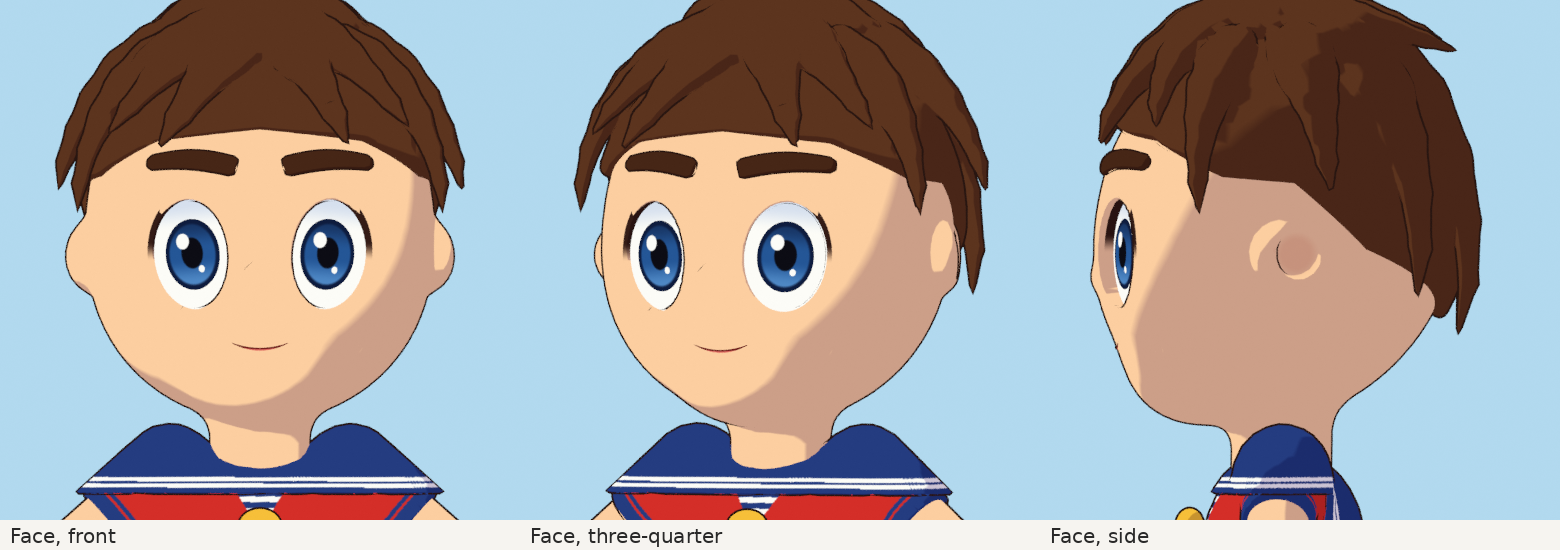
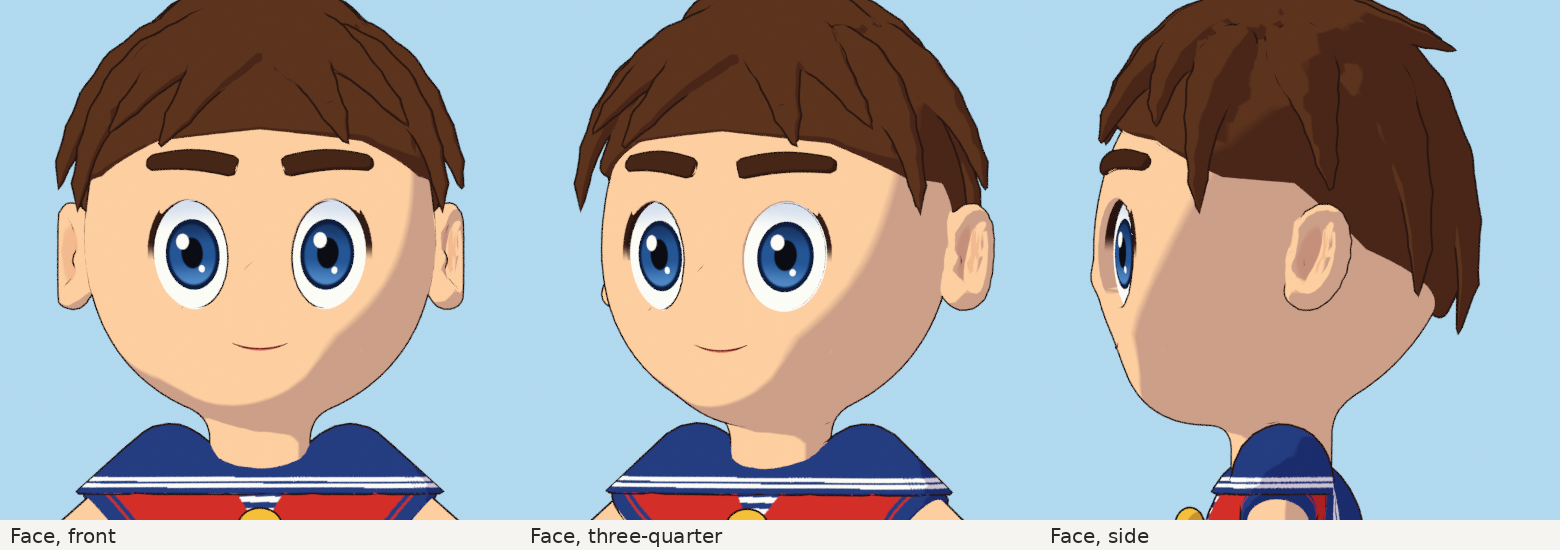
Kai: sculpted toon ears with helix rim, bowl, fold, tragus and lobe
The ears were a flat painted bump with no silhouette. They are now
a separate SDF placed on the head surface: a rounded helix rim, a
recessed bowl, an inner fold, a tragus and a soft lobe, leaning back
slightly. Hollow shading follows the new ear frame, and the closeup
render adds an ear sheet. All three blind reviewers preferred the new
ears. Clearance audit and the hair-vs-ear check both pass.

Claude-Session: https://claude.ai/code/session_016GpJUtHsovbhGp1GMTd1Wt

diff --git a/tools/kai_geometry.py b/tools/kai_geometry.py
@@ -248,29 +248,82 @@ def sdf_normals(P, sdf, h=0.02):
 # ---------------------------------------------------------------------------
 # Head
 # ---------------------------------------------------------------------------
-EAR = dict(off=(15.8, 1.8, -3.6), r=(2.2, 3.5, 4.7))
+EAR = dict(dy=1.6, dz=-3.2)                            # where the ear's front edge meets the head
 EYE = dict(x=6.9, dz=-3.4, a=4.0, b=5.3, tilt=5.0)    # centre, half width, half height (cm), lean of the tops (deg)
 IRIS = dict(a=2.75, b=3.45)                            # iris half width and half height
 BROW = dict(dz=4.9, x0=2.3, x1=10.4, arch=0.5, slant=0.35, w=1.95, t=0.9)
 MOUTH = dict(dz=-12.4)
 
 
-def head_base_sdf(P):
-    """Head without eye windows: big round cranium, soft cheeks, small chin, button nose, round ears, neck and a
-    patch of upper chest for the tunic's V-neck."""
+def head_core_sdf(P):
+    """Head without ears or eye windows: big round cranium, soft cheeks, small chin, small pointed nose, neck."""
     C = HEAD_C
     d = sd_ellipsoid(P, C, np.array([16.6, 17.2, 17.4]))
     d = smin(d, sd_ellipsoid(P, C + [0, -2.8, -6.4], np.array([14.6, 13.6, 12.6])), 5.0)       # cheeks and jaw
     d = smin(d, sd_ellipsoid(P, C + [0, -8.6, -14.6], np.array([5.6, 5.0, 4.4])), 4.0)        # chin
     d = smin(d, sd_ellipsoid(P, C + [0, -16.0, -5.5], np.array([1.1, 1.8, 1.3]),
                              rot_axes([1, 0, 0], [0, 1, 0.25])), 1.3)                                # small pointed nose
+    return smin(d, sd_capsule(P, (0, 0.6, Z["neck"] - 1.5), (0, 0.8, C[2] - 8.0), 4.75), 2.5)     # neck
+
+
+_EAR = {}
+
+
+def ear_frame(s):
+    """Origin on the side of the head and the ear's axes: u toward the back, v up (leaning back), n out of the ear."""
+    key = float(s)
+    if key in _EAR: return _EAR[key]
+    n = nrm([0.86 * s, -0.36, 0.08])                                  # faces out and a little forward
+    v = nrm(UP - n * (n @ UP))
+    b = nrm(np.cross(n, v)); b = b if b[1] > 0 else -b
+    lean = math.radians(14)                                            # the top of the ear leans back
+    v, b = nrm(v * math.cos(lean) + b * math.sin(lean)), nrm(b * math.cos(lean) - v * math.sin(lean))
+    z = HEAD_C[2] + EAR["dz"]
+    O = ray_hits(np.array([30.0 * s, HEAD_C[1] + EAR["dy"], z]), np.array([-s, 0.0, 0.0]), head_core_sdf, t_max=30.0)[0]
+    _EAR[key] = (O - n * 0.35, b, v, n)
+    return _EAR[key]
+
+
+def ear_local(P, s):
+    O, b, v, n = ear_frame(s)
+    q = P - O
+    return np.column_stack([q @ b, q @ v, q @ n])
+
+
+def _ear_rim():
+    """Rim (helix) of the ear: a smooth C from the top front, round the top and back, down to the lobe."""
+    pts = []
+    for th in np.linspace(math.radians(148), math.radians(-112), 14):
+        f = (math.radians(148) - th) / math.radians(260)
+        pts.append((2.2 + 2.35 * math.cos(th), 0.25 + 3.95 * math.sin(th), 0.52 + 0.4 * f ** 2))
+    return pts
+
+
+EAR_RIM = _ear_rim()
+EAR_K = 1.08                                                          # overall ear size
+
+
+def ear_sdf(P, s):
+    """A stylised ear: a rolled rim curling from the top round to a soft lobe, a hollow bowl, a small inner fold
+    and a tragus bump at the front."""
+    L = ear_local(P, s) / EAR_K
+    plate = sd_ellipsoid(L, np.array([2.15, 0.15, 0.55]), np.array([2.7, 4.3, 0.95]))
+    rim = sd_chain(L, [np.array([u, v, 1.05]) for u, v, r in EAR_RIM], [r for u, v, r in EAR_RIM], 0.45)
+    d = smin(plate, rim, 0.6)
+    d = smin(d, sd_ellipsoid(L, np.array([1.7, -3.2, 0.7]), np.array([1.5, 1.2, 0.95])), 0.8)       # lobe
+    bowl = sd_ellipsoid(L, np.array([2.05, 0.2, 2.0]), np.array([1.75, 3.0, 1.35]))
+    d = smax(d, -bowl, 0.7)
+    fold = sd_chain(L, [np.array([2.9, 2.5, 0.95]), np.array([3.3, 0.8, 0.95]), np.array([2.9, -1.0, 0.9])], [0.3, 0.34, 0.28], 0.3)
+    d = smin(d, fold, 0.55)
+    d = smin(d, sd_ellipsoid(L, np.array([0.45, -0.7, 0.95]), np.array([0.6, 0.75, 0.55])), 0.35)   # tragus
+    return smax(d, -L[:, 2] - 0.8, 0.3) * EAR_K                         # nothing behind the root
+
+
+def head_base_sdf(P):
+    """Head with ears, without eye windows."""
+    d = head_core_sdf(P)
     for side, s in SIDES:
-        c = C + mirror(EAR["off"], s)
-        R = rot_axes(mirror([0.9, 0.42, 0], s), [0, 0, 1])
-        e = sd_ellipsoid(P, c, np.array(EAR["r"]), R)
-        e = smax(e, -sd_sphere(P, c + mirror([1.3, -0.2, 0.2], s), 2.3), 0.6)                   # bowl of the ear
-        d = smin(d, e, 1.2)
-    d = smin(d, sd_capsule(P, (0, 0.6, Z["neck"] - 1.5), (0, 0.8, C[2] - 8.0), 4.75), 2.5)       # neck
+        d = smin(d, ear_sdf(P, s), 0.9)
     return d
 
 

diff --git a/tools/render_kai.py b/tools/render_kai.py
@@ -179,6 +179,12 @@ if "closeup" in ONLY:
              shot(os.path.join(FRAMES, "close_3q.png"), (150, -380, C[2] + 4), C + np.array([0, 0, -4.0]), 50, 520, 520),
              shot(os.path.join(FRAMES, "close_side.png"), (400, 0, C[2] - 2), C + np.array([0, 2.0, -4.0]), 50, 520, 520)]
     sheet(paths, ["Face, front", "Face, three-quarter", "Face, side"], 3, os.path.join(D, "Preview_Face.png"))
+    O, b, v, n = G.ear_frame(1.0)
+    ec = O + b * 2.0
+    ears = [shot(os.path.join(FRAMES, "ear_side.png"), ec + n * 300, ec, 22, 420, 420),
+            shot(os.path.join(FRAMES, "ear_front.png"), ec + np.array([40, -300, 20]), ec + np.array([-3, 0, 0]), 30, 420, 420),
+            shot(os.path.join(FRAMES, "ear_back.png"), ec + np.array([160, 260, 40]), ec, 26, 420, 420)]
+    sheet(ears, ["Ear, side", "Ear, from the front", "Ear, from behind"], 3, os.path.join(D, "Preview_Ears.png"))
     feet = [shot(os.path.join(FRAMES, "feet_3q.png"), (90, -160, 40), (0, -5, 4), 34, 520, 360),
             shot(os.path.join(FRAMES, "feet_side.png"), (200, -20, 12), (7, -4, 4), 26, 520, 360),
             shot(os.path.join(FRAMES, "feet_back.png"), (-60, 160, 45), (0, -2, 4), 34, 520, 360)]

diff --git a/tools/kai_textures.py b/tools/kai_textures.py
@@ -119,11 +119,12 @@ def paint_head(a):
             # the inside wall of the eye opening: a bold dark line along the top, like an inked upper lid
             wall = (r < 1.12) & (depth < 0.9) & (y > -0.05)
             c[wall] = mix(c[wall], PAL["lash"], sstep(-0.05, 0.3, y[wall]))
-        # inside of the ears a shade darker
+        # the hollow of each ear a shade warmer and darker, fading out toward the rim
         for side, s in G.SIDES:
-            ec = G.HEAD_C + G.mirror(G.EAR["off"], s) + G.mirror([1.3, -0.2, 0.2], s)
-            dd = np.linalg.norm(Pb - ec, axis=1)
-            c = mix(c, PAL["skin_shadow"], 0.45 * (1 - sstep(1.4, 2.3, dd)))
+            L = G.ear_local(Pb, s) / G.EAR_K
+            inside = np.sqrt(((L[:, 0] - 2.05) / 1.75) ** 2 + ((L[:, 1] - 0.2) / 3.0) ** 2)
+            near = (L[:, 2] > -0.2) & (L[:, 2] < 1.6) & (np.abs(L[:, 0] - 2.0) < 4.0)
+            c[near] = mix(c[near], PAL["skin_shadow"], 0.55 * (1 - sstep(0.75, 1.0, inside[near])))
         col[body] = c
     m = piece == PIECES["lid_upper"]
     if m.any():
